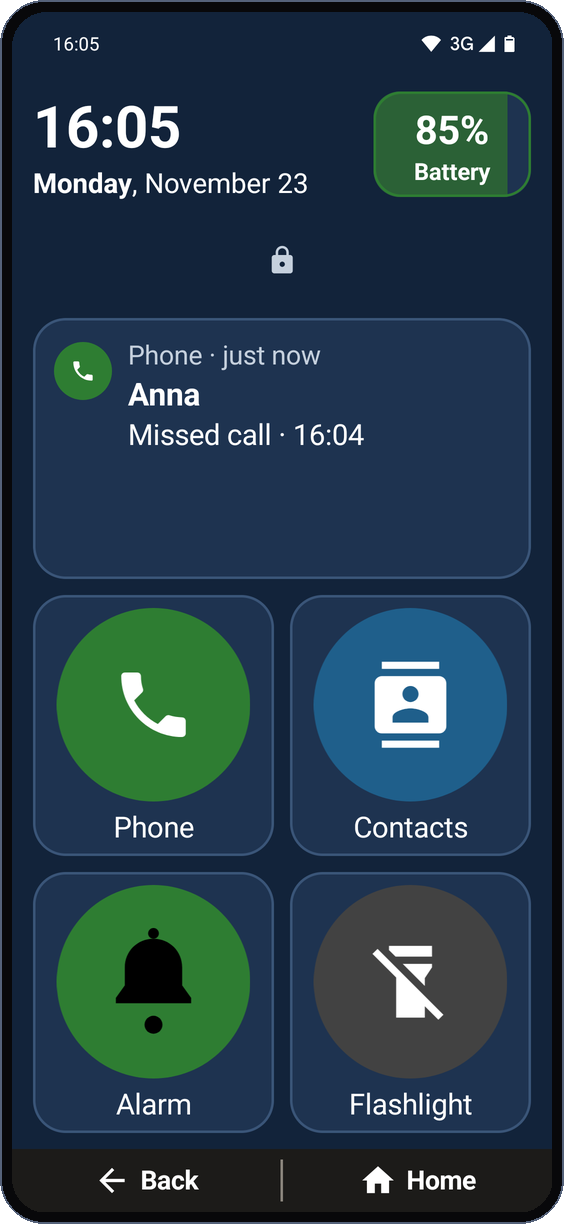
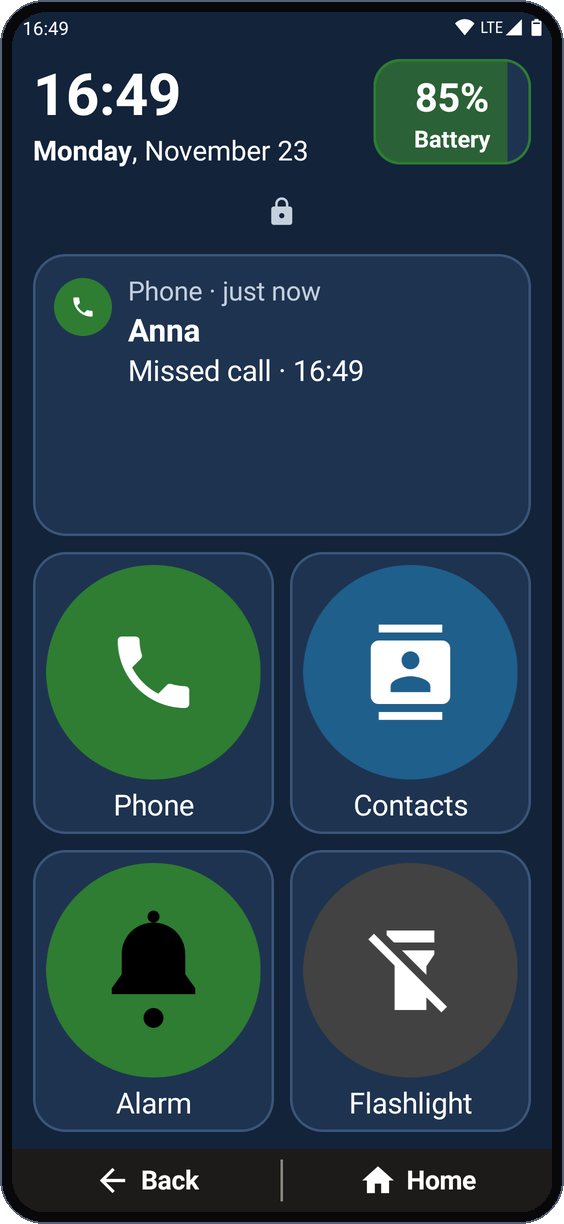
Show the unlocked home screen and the helper screens in the README
The README only showed the locked home screen, which is what the senior sees; the helper, who reads the README, sets the phone up unlocked. Adds the unlocked home screen next to the locked one, and the Apps, Widgets and Settings screens under the setup section. Taken on the API 30 emulator in the dark theme with made-up contacts.

diff --git a/README.md b/README.md
@@ -15,6 +15,7 @@ English and German. The app follows the phone's language.
 
 <p>
   <img src="docs/screenshots/home.png" width="30%" alt="The home screen in the dark theme, locked: time, date and battery at the top, a missed call from Anna in the messages card, big tiles for Phone, Contacts, Alarm and Flashlight, and SeniorNav's Back and Home bar at the bottom">
+  <img src="docs/screenshots/home-unlocked.png" width="30%" alt="The same home screen unlocked, for the helper: Apps, Widgets and Settings buttons appear under the time and battery">
 </p>
 
 - **Time and date** in large letters.
@@ -46,6 +47,12 @@ English and German. The app follows the phone's language.
 Needs Android 8.0 or newer.
 
 ## Setting it up (for the helper)
+
+<p>
+  <img src="docs/screenshots/apps.png" width="30%" alt="Apps screen: search, and every app with Add or On home">
+  <img src="docs/screenshots/widgets.png" width="30%" alt="Widgets screen: the widgets on the home screen with their size and Remove, and Add a widget below">
+  <img src="docs/screenshots/settings.png" width="30%" alt="Settings screen: Lock at the top, then the four colour themes">
+</p>
 
 - **Apps** lists every app. **Add** puts it on the home screen, **On home ✓**
   takes it off again. New tiles go to the end.
